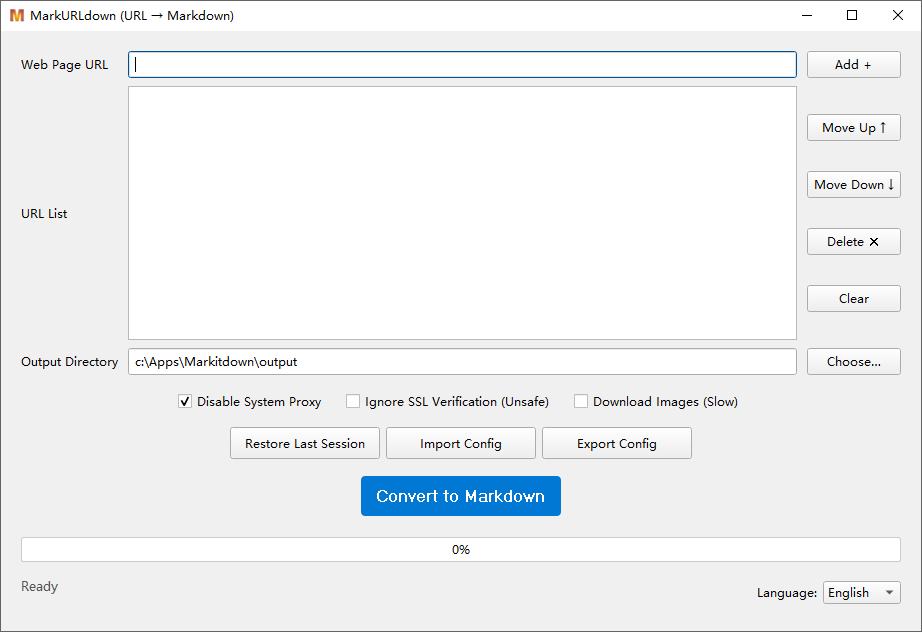
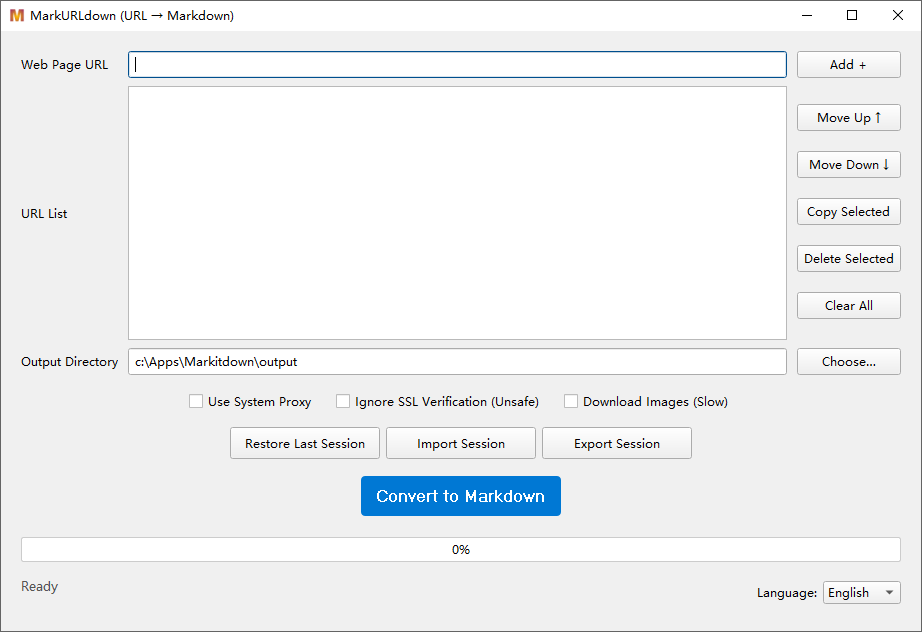
feat(ui): Enhance URL list management and clarify proxy settings
This commit introduces several UI improvements to enhance usability and clarity:

- Add "Copy Selected" feature: A new button allows users to copy a selected URL directly to the clipboard for convenience.
- Improve button labels and tooltips:
    - Renamed "Delete" to "Delete Selected" and "Clear" to "Clear All" for better specificity.
    - Added descriptive tooltips to all URL list management buttons (Move Up, Move Down, Copy, Delete, Clear).
- Clarify proxy setting:
    - Changed the "Disable System Proxy" checkbox to "Use System Proxy" to make the option more intuitive. The default behavior is now to not use the proxy.
- Standardize terminology: Replaced "Config" with "Session" in UI text (buttons, dialogs, status messages) to better reflect that the exported/imported files contain the session's state (URL list and settings).
- Update UI screenshot: Refreshed the application screenshot to reflect the latest UI changes.

diff --git a/markitdown_app/ui/pyside/gui.py b/markitdown_app/ui/pyside/gui.py
@@ -11,7 +11,7 @@ from PySide6.QtWidgets import (
     QProgressBar, QFileDialog, QMessageBox, QFrame, QGridLayout, QComboBox
 )
 from PySide6.QtCore import Qt, QTimer, Signal, QObject
-from PySide6.QtGui import QFont, QIcon
+from PySide6.QtGui import QFont, QIcon, QClipboard
 
 from markitdown_app.app_types import SourceRequest, ConversionOptions, ProgressEvent
 from markitdown_app.ui.viewmodel import ViewModel
@@ -62,7 +62,7 @@ class PySideApp(QMainWindow):
 
         # Default options
         self.ignore_ssl_var = False
-        self.no_proxy_var = True
+        self.use_proxy_var = False
         self.download_images_var = False
 
         self.vm = ViewModel()
@@ -79,7 +79,7 @@ class PySideApp(QMainWindow):
                 "urls": [self.url_listbox.item(i).text() for i in range(self.url_listbox.count())],
                 "output_dir": self.output_entry.text(),
                 "ignore_ssl": self.ignore_ssl_cb.isChecked(),
-                "no_proxy": self.no_proxy_cb.isChecked(),
+                "use_proxy": self.use_proxy_cb.isChecked(),
                 "download_images": self.download_images_cb.isChecked(),
             }
             state_path = os.path.join(self.root_dir, "sessions", "last_state.json")
@@ -131,9 +131,10 @@ class PySideApp(QMainWindow):
         url_btn_layout.setContentsMargins(0, 0, 0, 0)
         self.move_up_btn = QPushButton()
         self.move_down_btn = QPushButton()
+        self.copy_btn = QPushButton()
         self.delete_btn = QPushButton()
         self.clear_btn = QPushButton()
-        for btn in [self.move_up_btn, self.move_down_btn, self.delete_btn, self.clear_btn]:
+        for btn in [self.move_up_btn, self.move_down_btn, self.copy_btn, self.delete_btn, self.clear_btn]:
             btn.setFixedHeight(button_height)
             url_btn_layout.addWidget(btn)
         layout.addWidget(url_btn_frame, 1, 3)
@@ -154,13 +155,13 @@ class PySideApp(QMainWindow):
         options_layout.setSpacing(20)
         options_layout.setContentsMargins(0, 8, 0, 8)
         options_layout.setAlignment(Qt.AlignmentFlag.AlignCenter)
-        self.no_proxy_cb = QCheckBox()
-        self.no_proxy_cb.setChecked(self.no_proxy_var)
+        self.use_proxy_cb = QCheckBox()
+        self.use_proxy_cb.setChecked(self.use_proxy_var)
         self.ignore_ssl_cb = QCheckBox()
         self.ignore_ssl_cb.setChecked(self.ignore_ssl_var)
         self.download_images_cb = QCheckBox()
         self.download_images_cb.setChecked(self.download_images_var)
-        for cb in [self.no_proxy_cb, self.ignore_ssl_cb, self.download_images_cb]:
+        for cb in [self.use_proxy_cb, self.ignore_ssl_cb, self.download_images_cb]:
             options_layout.addWidget(cb)
         layout.addWidget(options_frame, 3, 0, 1, 4)
 
@@ -251,13 +252,19 @@ class PySideApp(QMainWindow):
         self.add_btn.setText(t('add_button'))
         self.url_list_label.setText(t('url_list_label'))
         self.move_up_btn.setText(t('move_up_button'))
+        self.move_up_btn.setToolTip(t('tooltip_move_up'))
         self.move_down_btn.setText(t('move_down_button'))
+        self.move_down_btn.setToolTip(t('tooltip_move_down'))
         self.delete_btn.setText(t('delete_button'))
+        self.delete_btn.setToolTip(t('tooltip_delete'))
         self.clear_btn.setText(t('clear_button'))
+        self.clear_btn.setToolTip(t('tooltip_clear'))
+        self.copy_btn.setText(t('copy_button'))
+        self.copy_btn.setToolTip(t('tooltip_copy'))
         self.output_dir_label.setText(t('output_dir_label'))
         self.choose_dir_btn.setText(t('choose_dir_button'))
         self.lang_label.setText(t('language_label_text'))
-        self.no_proxy_cb.setText(t('no_proxy_checkbox'))
+        self.use_proxy_cb.setText(t('use_proxy_checkbox'))
         self.ignore_ssl_cb.setText(t('ignore_ssl_checkbox'))
         self.download_images_cb.setText(t('download_images_checkbox'))
         self.restore_btn.setText(t('restore_button'))
@@ -272,6 +279,7 @@ class PySideApp(QMainWindow):
         self.move_down_btn.clicked.connect(self._move_selected_down)
         self.delete_btn.clicked.connect(self._delete_selected)
         self.clear_btn.clicked.connect(self._clear_list)
+        self.copy_btn.clicked.connect(self._copy_selected)
         self.choose_dir_btn.clicked.connect(self._choose_output_dir)
         self.restore_btn.clicked.connect(self._restore_last_session)
         self.export_btn.clicked.connect(self._export_config)
@@ -319,8 +327,8 @@ class PySideApp(QMainWindow):
             self.output_entry.setText(state["output_dir"])
         if "ignore_ssl" in state:
             self.ignore_ssl_cb.setChecked(bool(state["ignore_ssl"]))
-        if "no_proxy" in state:
-            self.no_proxy_cb.setChecked(bool(state["no_proxy"]))
+        if "use_proxy" in state:
+            self.use_proxy_cb.setChecked(bool(state["use_proxy"]))
         if "download_images" in state:
             self.download_images_cb.setChecked(bool(state["download_images"]))
 
@@ -350,7 +358,7 @@ class PySideApp(QMainWindow):
         self.status_label.setText(self.translator.t('status_converting'))
         self.detail_label.setText("")
         reqs = [SourceRequest(kind="url", value=u) for u in urls]
-        options = ConversionOptions(ignore_ssl=self.ignore_ssl_cb.isChecked(), no_proxy=self.no_proxy_cb.isChecked(), download_images=self.download_images_cb.isChecked())
+        options = ConversionOptions(ignore_ssl=self.ignore_ssl_cb.isChecked(), no_proxy=not self.use_proxy_cb.isChecked(), download_images=self.download_images_cb.isChecked())
         self.vm.start(reqs, out_dir, options, self._on_event)
 
     def _stop(self):
@@ -440,6 +448,15 @@ class PySideApp(QMainWindow):
     def _clear_list(self):
         self.url_listbox.clear()
 
+    def _copy_selected(self):
+        current = self.url_listbox.currentRow()
+        if current >= 0:
+            url = self.url_listbox.item(current).text()
+            clipboard = QApplication.clipboard()
+            clipboard.setText(url)
+            self.status_label.setText(self.translator.t('status_url_copied'))
+            self.detail_label.setText(self.translator.t('detail_copied_url', url=url))
+
     def _export_config(self):
         t = self.translator.t
         sessions_dir = os.path.join(self.root_dir, "sessions")
@@ -448,7 +465,7 @@ class PySideApp(QMainWindow):
                 "urls": [self.url_listbox.item(i).text() for i in range(self.url_listbox.count())],
                 "output_dir": self.output_entry.text(),
                 "ignore_ssl": self.ignore_ssl_cb.isChecked(),
-                "no_proxy": self.no_proxy_cb.isChecked(),
+                "use_proxy": self.use_proxy_cb.isChecked(),
                 "download_images": self.download_images_cb.isChecked(),
             }
             filename, _ = QFileDialog.getSaveFileName(self, t('dialog_export_config'), sessions_dir, t('file_filter_json'))
